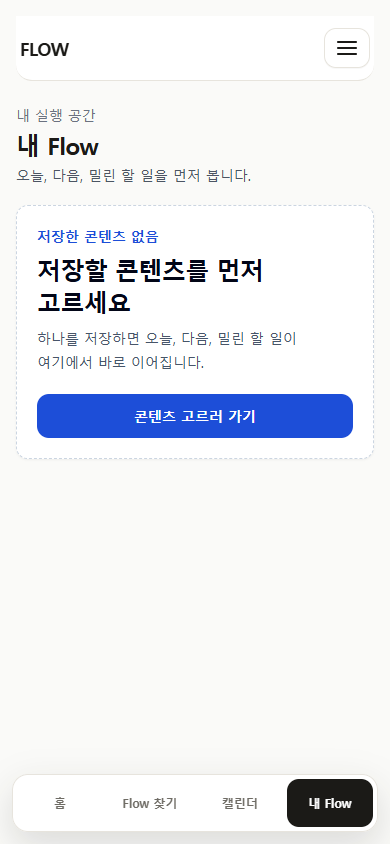
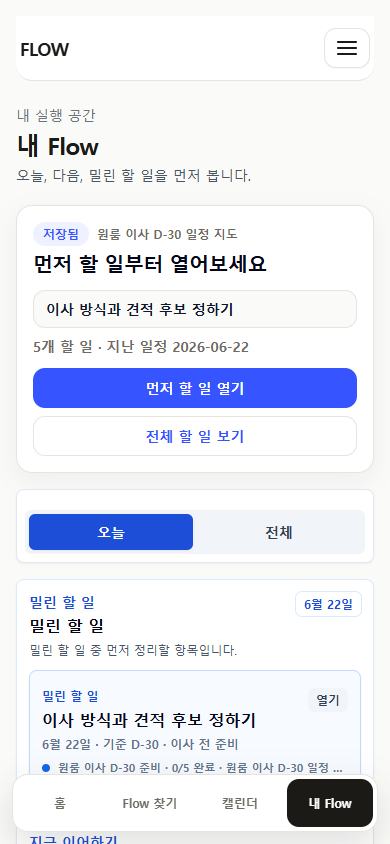
Fix P3 save evidence regeneration

diff --git a/tests/e2e/flow-mvp.spec.ts b/tests/e2e/flow-mvp.spec.ts
@@ -361,9 +361,12 @@ test('product IA v2 keeps discovery simple and saved execution clear', async ({ 
   await expect(page.getByTestId('flow-map-save-all-mobile')).toHaveText('저장하고 시작');
   await page.getByTestId('flow-map-save-all-mobile').click();
   await expect(page).toHaveURL('/my?savedMap=moving-d30');
+  await expect(page.getByTestId('my-flow-empty-state')).toHaveCount(0);
+  await expect(page.getByTestId('my-flow-workspace')).toBeVisible();
   const movingPostSave = page.getByTestId('my-flow-post-save-panel');
   await expectNoInternalUserSurfaceCopy(page.locator('body'));
   await expect(movingPostSave).toContainText('5개 할 일');
+  await expect(movingPostSave).toContainText('이사 방식과 견적 후보 정하기');
   await expect(movingPostSave).not.toContainText('5개 Step');
   await expect(movingPostSave.getByTestId('my-flow-post-save-open-first')).toContainText('먼저 할 일 열기');
   await expect(movingPostSave.getByTestId('my-flow-post-save-view-all')).toHaveCount(0);
@@ -491,7 +494,11 @@ test('mobile fixed layers keep save actions and final content separated', async 
   await expectElementClearsFixedLayer(page.getByTestId('my-flow-workspace'), page.getByTestId('platform-mobile-tabs'), 16);
 
   await page.goto('/calendar');
+  await expect(page.getByTestId('my-flow-empty-state')).toHaveCount(0);
   await expect(page.getByTestId('my-flow-calendar-card')).toBeVisible();
+  const selectedDateGroup = page.getByTestId('my-flow-selected-date-group').first();
+  await expect(selectedDateGroup).toContainText('원룸 이사 D-30 일정 지도');
+  await expect(selectedDateGroup).toContainText('입주청소와 대형폐기물 일정 확인');
   await page.evaluate(() => window.scrollTo(0, document.documentElement.scrollHeight));
   await expectElementClearsFixedLayer(page.getByTestId('my-flow-calendar-card'), page.getByTestId('platform-mobile-tabs'), 16);
   await expectNoInternalUserSurfaceCopy(page.locator('body'));

diff --git a/docs/content-audit/2026-07-03-claude-design-p0-p2-final-audit-package/review.html b/docs/content-audit/2026-07-03-claude-design-p0-p2-final-audit-package/review.html
@@ -177,6 +177,7 @@
     <a class="chip" href="./route-evidence.json">Route evidence JSON</a>
     <a class="chip" href="../2026-07-03-claude-design-action-backlog-ko.md">Backlog source</a>
     <span class="chip green">P0~P2 closed</span>
+    <span class="chip green">P3-01 rechecked</span>
     <span class="chip amber">390px evidence</span>
   </div>
 
@@ -193,7 +194,25 @@
       </div>
       <div class="card">
         <h3>검증 상태</h3>
-        <p>모바일 390px route evidence, targeted Playwright 9건, full test/docs/build 검증 통과를 확보했다.</p>
+        <p>모바일 390px route evidence, P3-01 직접 subset 2건, P0/P2 회귀 subset 6건, full test/docs/build 검증 통과를 확보했다.</p>
+      </div>
+    </div>
+  </section>
+
+  <section class="section">
+    <h2>P3-01 재검증 결론</h2>
+    <div class="grid">
+      <div class="card">
+        <h3>원인</h3>
+        <p>저장 후 My Flow와 캘린더가 비어 보였던 기존 증거는 앱 버그가 아니라 저장된 브라우저 상태를 유지하지 못한 evidence 생성 오류였다.</p>
+      </div>
+      <div class="card">
+        <h3>현재 증거</h3>
+        <p>`/my?savedMap=moving-d30`는 첫 실행 항목을 보여주고, `/calendar`는 저장된 일정 agenda를 보여준다.</p>
+      </div>
+      <div class="card">
+        <h3>고정 장치</h3>
+        <p>저장 후 true empty state 회귀를 막는 Playwright assertion과 전용 evidence 재생성 스크립트를 추가했다.</p>
       </div>
     </div>
   </section>

diff --git a/docs/content-audit/2026-07-03-claude-design-p0-p2-final-audit-package/audit.md b/docs/content-audit/2026-07-03-claude-design-p0-p2-final-audit-package/audit.md
@@ -13,9 +13,17 @@
 | P1 | 완료 | `/flows`, `/flow-maps/[map]`, `/f/[slug]`, `/my`, `/calendar`의 첫 화면을 행동/결과 중심으로 압축했다. |
 | P2 | 완료 | export 라벨, true empty state, fixed layer, 진행 표시, 디자인 토큰 마감을 정리했다. |
 
+## P3-01 재검증 결론
+
+- 결론: 앱 저장/복원 버그가 아니라 final audit evidence 생성 오류였다.
+- 원인: 이전 `07-post-save-my-flow-mobile.png`, `08-calendar-after-save-mobile.png` 캡처는 실제 저장 후 브라우저 localStorage 상태를 유지하지 못한 상태에서 생성된 것으로 보인다.
+- 재현 결과: 모바일 390px에서 `/flow-maps/moving-d30`에 이사일 `2026-07-22`를 입력하고 저장하면 `flow:saved:source-backed-moving-d30`, `flow:map:saved:moving-d30` 등 저장 키가 기록된다.
+- 현재 evidence: `/my?savedMap=moving-d30`는 `이사 방식과 견적 후보 정하기` 첫 실행 항목을 보여주고, `/calendar`는 `7월 8일 (수)` 선택일 agenda와 `입주청소와 대형폐기물 일정 확인`을 보여준다.
+- 고정 장치: `tests/e2e/flow-mvp.spec.ts`에 저장 후 My Flow/Calendar가 true empty state로 회귀하지 않는 assertion을 추가했고, `scripts/content-audit/capture-claude-p0-p2-final-evidence.mjs`로 같은 브라우저 컨텍스트에서 저장 후 증거를 재생성한다.
+
 ## Route evidence
 
-모바일 390 x 844 viewport에서 route sanity check를 수행했다. 모든 route에서 horizontal overflow는 0건이고, ASCII 내부 검토어 스캔 결과는 0건이다.
+모바일 390 x 844 viewport에서 route sanity check를 수행했다. 저장 후 route는 `/flow-maps/moving-d30`에서 실제 저장을 수행한 같은 브라우저 컨텍스트로 캡처했다. 모든 route에서 horizontal overflow는 0건이고, ASCII 내부 검토어 스캔 결과는 0건이다.
 
 | Route | 상태 | H1 | Screenshot | 비고 |
 | --- | --- | --- | --- | --- |
@@ -33,7 +41,10 @@
 ## Verification snapshot
 
 - 모바일 390px route evidence: 생성 완료
-- targeted Playwright subset: 9 passed
+- P3-01 저장 루프 evidence: 앱 버그 아님, evidence 생성 오류로 판별
+- P3-01 targeted Playwright subset: 2 passed
+- P0/P2 regression targeted Playwright subset: 6 passed
+- P0~P2 final targeted Playwright subset: 9 passed
   - design token rhythm
   - internal operation labels
   - fixed layers

diff --git a/docs/content-audit/2026-07-03-claude-design-p0-p2-final-audit-package/README.md b/docs/content-audit/2026-07-03-claude-design-p0-p2-final-audit-package/README.md
@@ -10,6 +10,21 @@
 4. [screenshots](./screenshots/) - 주요 route 모바일 390px screenshot
 5. [prompt-ko.md](./prompt-ko.md) - Claude Design 재검토 요청 프롬프트
 
+## P3-01 저장 증거 재검증
+
+- 결론: `06-my-empty-mobile.png`와 기존 `07-post-save-my-flow-mobile.png`가 같아 보였던 문제는 앱 저장 버그가 아니라 evidence 생성 오류였다.
+- 현재 `07-post-save-my-flow-mobile.png`는 실제 저장 후 My Flow 첫 실행 항목을 보여준다.
+- 현재 `08-calendar-after-save-mobile.png`는 실제 저장 후 가장 가까운 일정 agenda를 보여준다.
+- 재생성 스크립트: [`scripts/content-audit/capture-claude-p0-p2-final-evidence.mjs`](../../../scripts/content-audit/capture-claude-p0-p2-final-evidence.mjs)
+
+```powershell
+npm.cmd run build
+# 별도 터미널에서 실행한 채 유지
+npm.cmd run start -- -p 3104
+# 다른 터미널에서 실행
+node scripts\content-audit\capture-claude-p0-p2-final-evidence.mjs
+```
+
 ## 관련 기준 문서
 
 - [Claude Design 실행 백로그](../2026-07-03-claude-design-action-backlog-ko.md)
